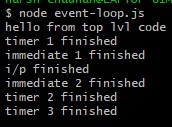
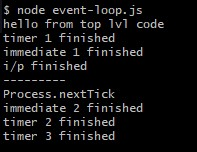
2 event loop3

diff --git a/2-how-node-works/event-loop.js b/2-how-node-works/event-loop.js
@@ -11,6 +11,7 @@ setImmediate(() => {
 
 fs.readFile('test-file.txt', () => {
     console.log("i/p finished");
+    console.log("---------");
     setTimeout(() => {
         console.log("timer 2 finished");
     }, 0);
@@ -20,6 +21,7 @@ fs.readFile('test-file.txt', () => {
     setImmediate(() => {
         console.log("immediate 2 finished");
     });
+    process.nextTick(() => { console.log('Process.nextTick'); })
 });
 
 console.log("hello from top lvl code");
